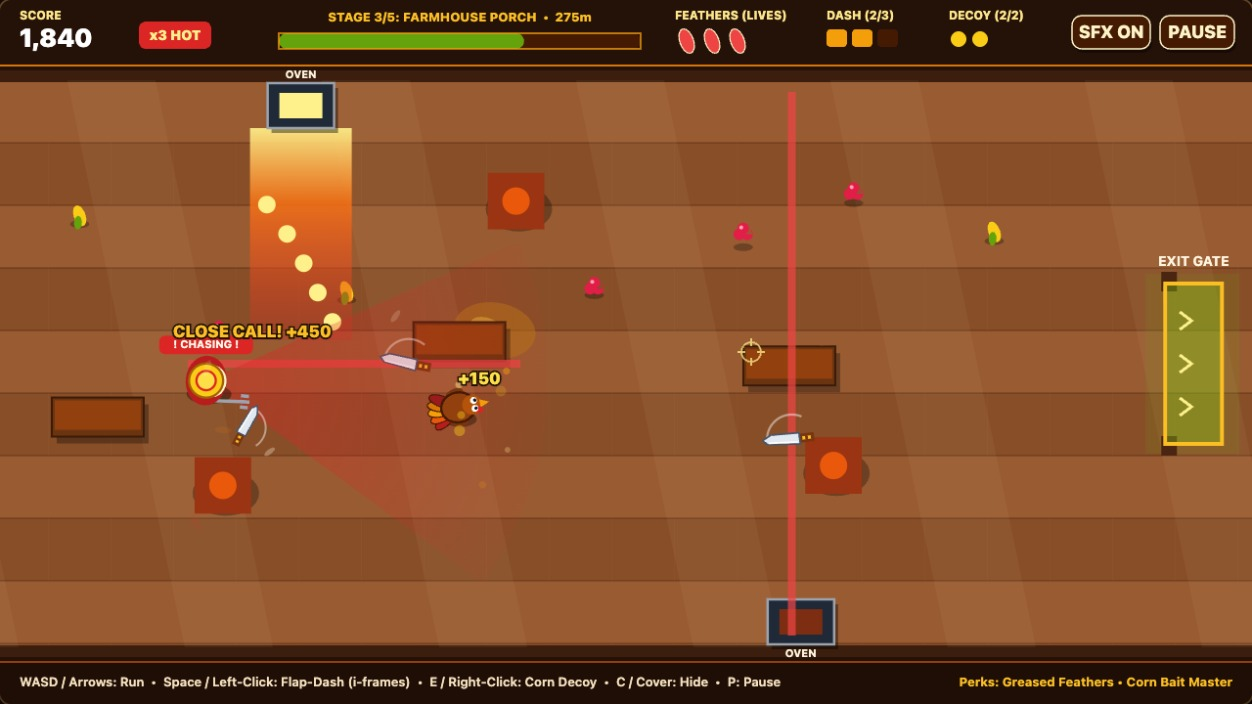
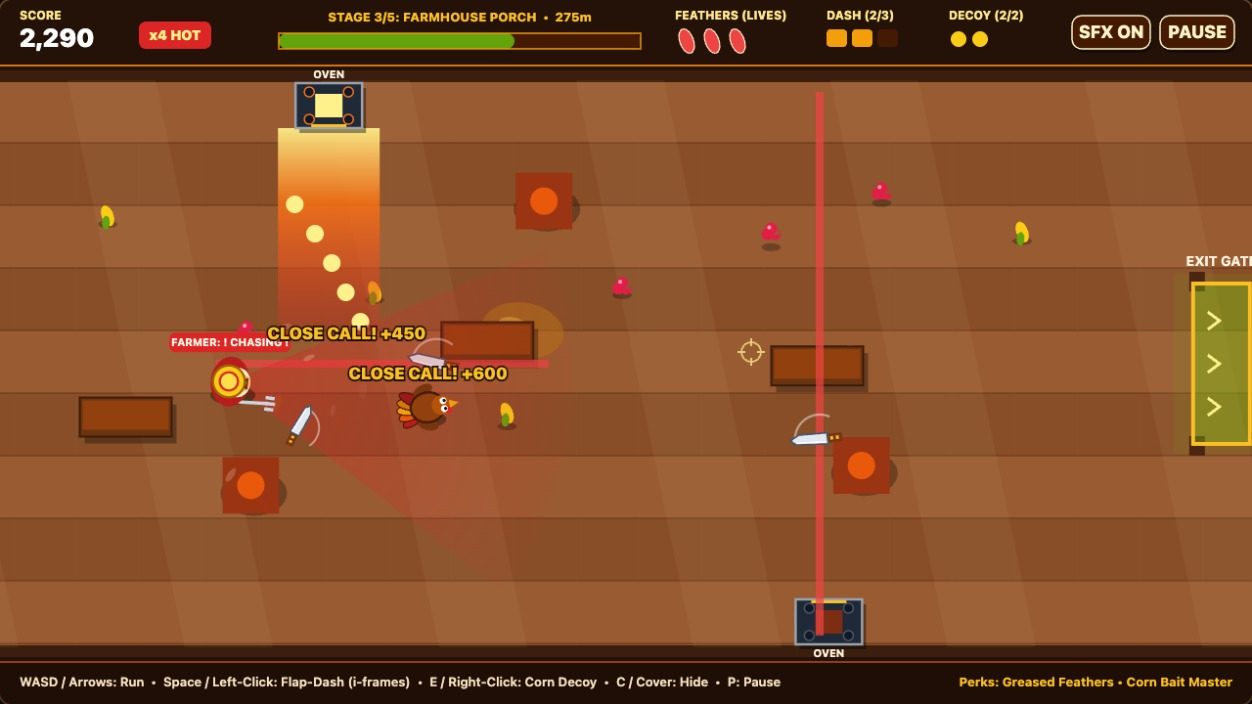
Polish V1.1 character/oven art, music pulse, and cover framing

diff --git a/game/src/renderer.js b/game/src/renderer.js
@@ -381,9 +381,24 @@ export class GameRenderer {
       ctx.lineWidth = 2.5;
       ctx.strokeRect(-hw, -hh, oven.width, oven.height);
 
+      // 4 cast-iron stovetop burners + brass door handle.
+      ctx.fillStyle = '#111827';
+      ctx.strokeStyle = oven.state === 'IDLE' ? '#4B5563' : '#F97316';
+      ctx.lineWidth = 1.5;
+      for (const bx of [-hw + 14, hw - 14]) {
+        for (const by of [-hh + 9, hh - 9]) {
+          ctx.beginPath();
+          ctx.arc(bx, by, 5, 0, Math.PI * 2);
+          ctx.fill();
+          ctx.stroke();
+        }
+      }
+
       // Glowing oven window.
       ctx.fillStyle = oven.state === 'IDLE' ? '#7C2D12' : oven.state === 'PREHEAT' ? '#F97316' : '#FEF08A';
-      ctx.fillRect(-hw + 12, -hh + 10, oven.width - 24, oven.height - 20);
+      ctx.fillRect(-hw + 20, -hh + 11, oven.width - 40, oven.height - 22);
+      ctx.fillStyle = '#FBBF24';
+      ctx.fillRect(-hw + 16, oven.dirY > 0 ? hh - 4 : -hh + 1, oven.width - 32, 3);
 
       // Tag label for instant readability.
       ctx.fillStyle = '#FFF4DF';
@@ -642,36 +657,63 @@ export class GameRenderer {
 
     // Swinging arms & carving fork/pitchfork.
     const swing = Math.sin(farmer.walkPhase) * 3;
-    ctx.strokeStyle = '#9CA3AF';
+    // Stepping boots.
+    const step = Math.sin(farmer.walkPhase) * 5;
+    ctx.fillStyle = '#3B1E08';
+    ctx.beginPath();
+    ctx.ellipse(4 + step, -10, 7, 4.5, 0, 0, Math.PI * 2);
+    ctx.ellipse(4 - step, 10, 7, 4.5, 0, 0, Math.PI * 2);
+    ctx.fill();
+
+    ctx.strokeStyle = '#CBD5E1';
     ctx.lineWidth = 3;
     ctx.beginPath();
     ctx.moveTo(8, 15 + swing);
-    ctx.lineTo(35, 13 + swing);
+    ctx.lineTo(36, 13 + swing);
     ctx.stroke();
     // Fork prongs.
     ctx.beginPath();
-    ctx.moveTo(32, 8 + swing);
-    ctx.lineTo(39, 8 + swing);
-    ctx.moveTo(32, 13 + swing);
-    ctx.lineTo(40, 13 + swing);
-    ctx.moveTo(32, 18 + swing);
-    ctx.lineTo(39, 18 + swing);
+    ctx.moveTo(33, 8 + swing);
+    ctx.lineTo(41, 8 + swing);
+    ctx.moveTo(33, 13 + swing);
+    ctx.lineTo(42, 13 + swing);
+    ctx.moveTo(33, 18 + swing);
+    ctx.lineTo(41, 18 + swing);
     ctx.stroke();
 
-    // Flannel shoulders & apron torso.
+    // Flannel shoulders, denim overalls & white apron.
     ctx.fillStyle = '#B91C1C';
     ctx.beginPath();
-    ctx.ellipse(0, 0, 18, 22, 0, 0, Math.PI * 2);
+    ctx.ellipse(0, 0, 17, 22, 0, 0, Math.PI * 2);
     ctx.fill();
+    ctx.fillStyle = '#1D4ED8';
+    ctx.fillRect(-10, -13, 16, 26);
     ctx.fillStyle = '#FEF3C7';
     ctx.beginPath();
-    ctx.ellipse(6, 0, 12, 14, 0, 0, Math.PI * 2);
+    ctx.ellipse(7, 0, 11, 13, 0, 0, Math.PI * 2);
     ctx.fill();
+
+    // Face & determined brow peeking ahead.
+    ctx.fillStyle = '#FDBA74';
+    ctx.beginPath();
+    ctx.arc(10, 0, 8, 0, Math.PI * 2);
+    ctx.fill();
+    ctx.fillStyle = '#111827';
+    ctx.beginPath();
+    ctx.arc(13, -3, 1.6, 0, Math.PI * 2);
+    ctx.arc(13, 3, 1.6, 0, Math.PI * 2);
+    ctx.fill();
+    ctx.strokeStyle = '#78350F';
+    ctx.lineWidth = 2;
+    ctx.beginPath();
+    ctx.moveTo(15, -5);
+    ctx.lineTo(15, 5);
+    ctx.stroke();
 
     // Straw hat.
     ctx.fillStyle = '#FACC15';
     ctx.beginPath();
-    ctx.arc(0, 0, 15, 0, Math.PI * 2);
+    ctx.arc(-1, 0, 14, 0, Math.PI * 2);
     ctx.fill();
     ctx.strokeStyle = '#A16207';
     ctx.lineWidth = 2;
@@ -679,11 +721,11 @@ export class GameRenderer {
 
     ctx.fillStyle = '#DC2626';
     ctx.beginPath();
-    ctx.arc(0, 0, 9.5, 0, Math.PI * 2);
+    ctx.arc(-1, 0, 9, 0, Math.PI * 2);
     ctx.fill();
     ctx.fillStyle = '#FDE047';
     ctx.beginPath();
-    ctx.arc(0, 0, 7.5, 0, Math.PI * 2);
+    ctx.arc(-1, 0, 7, 0, Math.PI * 2);
     ctx.fill();
 
     ctx.restore();
@@ -694,25 +736,25 @@ export class GameRenderer {
     const badgeColor = isChase ? '#DC2626' : isWarn ? '#EA580C' : '#3F6212';
     const label =
       farmer.calloutTimer > 0 && farmer.calloutText
-        ? farmer.calloutText
+        ? `FARMER: ${farmer.calloutText}`
         : farmer.state === FARMER_STATES.CORNERING
-          ? '!! CORNERING'
+          ? 'FARMER !! CORNER'
           : farmer.state === FARMER_STATES.CHASING
-            ? '! CHASING'
+            ? 'FARMER ! CHASING'
             : farmer.state === FARMER_STATES.SEARCHING
-              ? '? SEARCHING'
+              ? 'FARMER ? SEARCH'
               : farmer.state === FARMER_STATES.SUSPICIOUS
-                ? '? ALERT'
-                : 'PATROL';
+                ? 'FARMER ? ALERT'
+                : 'FARMER PATROL';
 
     ctx.fillStyle = badgeColor;
     ctx.beginPath();
-    ctx.roundRect(-48, -46, 96, 19, 6);
+    ctx.roundRect(-62, -50, 124, 20, 6);
     ctx.fill();
     ctx.fillStyle = '#FFFBEB';
     ctx.font = 'bold 11px system-ui, sans-serif';
     ctx.textAlign = 'center';
-    ctx.fillText(label, 0, -33);
+    ctx.fillText(label, 0, -36);
 
     if (farmer.suspicion > 4 && farmer.suspicion < 100) {
       ctx.fillStyle = 'rgba(0,0,0,0.55)';

diff --git a/game/src/hud.js b/game/src/hud.js
@@ -342,15 +342,18 @@ export class HudRenderer {
     ctx.fillStyle = '#5B6E29';
     ctx.fillRect(x, y + 165, w, h - 165);
 
-    // Mini Oven on right.
+    // Mini Oven on right with stovetop burners & roast glow.
     ctx.fillStyle = '#1F2937';
-    ctx.fillRect(x + 410, y + 120, 84, 70);
+    ctx.fillRect(x + 410, y + 116, 86, 76);
+    ctx.strokeStyle = '#9CA3AF';
+    ctx.lineWidth = 2;
+    ctx.strokeRect(x + 410, y + 116, 86, 76);
     ctx.fillStyle = '#F97316';
-    ctx.fillRect(x + 424, y + 136, 56, 36);
+    ctx.fillRect(x + 426, y + 136, 54, 38);
     ctx.fillStyle = '#FEF08A';
     ctx.font = 'bold 12px system-ui, sans-serif';
     ctx.textAlign = 'center';
-    ctx.fillText('ROAST OVEN', x + 452, y + 110);
+    ctx.fillText('ROAST OVEN', x + 453, y + 104);
 
     // Gleaming carving knife hovering mid-air.
     ctx.save();
@@ -368,7 +371,7 @@ export class HudRenderer {
     ctx.fill();
     ctx.restore();
 
-    // Farmer on left with vision beam.
+    // Farmer on left with overalls, apron, fork & vision beam.
     ctx.fillStyle = 'rgba(220, 38, 38, 0.28)';
     ctx.beginPath();
     ctx.moveTo(x + 115, y + 180);
@@ -377,14 +380,38 @@ export class HudRenderer {
     ctx.closePath();
     ctx.fill();
 
+    ctx.strokeStyle = '#CBD5E1';
+    ctx.lineWidth = 3;
+    ctx.beginPath();
+    ctx.moveTo(x + 120, y + 195);
+    ctx.lineTo(x + 158, y + 193);
+    ctx.stroke();
+
     ctx.fillStyle = '#B91C1C';
     ctx.beginPath();
-    ctx.arc(x + 110, y + 180, 26, 0, Math.PI * 2);
+    ctx.ellipse(x + 108, y + 180, 22, 26, 0, 0, Math.PI * 2);
+    ctx.fill();
+    ctx.fillStyle = '#1D4ED8';
+    ctx.fillRect(x + 96, y + 165, 20, 30);
+    ctx.fillStyle = '#FEF3C7';
+    ctx.beginPath();
+    ctx.ellipse(x + 118, y + 180, 12, 16, 0, 0, Math.PI * 2);
     ctx.fill();
     ctx.fillStyle = '#FACC15';
     ctx.beginPath();
-    ctx.arc(x + 110, y + 180, 18, 0, Math.PI * 2);
+    ctx.arc(x + 108, y + 180, 16, 0, Math.PI * 2);
     ctx.fill();
+    ctx.fillStyle = '#DC2626';
+    ctx.beginPath();
+    ctx.arc(x + 108, y + 180, 10, 0, Math.PI * 2);
+    ctx.fill();
+    ctx.fillStyle = '#FDE047';
+    ctx.beginPath();
+    ctx.arc(x + 108, y + 180, 7.5, 0, Math.PI * 2);
+    ctx.fill();
+    ctx.fillStyle = '#FFF4DF';
+    ctx.font = 'bold 11px system-ui, sans-serif';
+    ctx.fillText('FARMER', x + 108, y + 144);
 
     // Hero Turkey dashing center.
     const tx = x + 285;

diff --git a/game/src/engine.js b/game/src/engine.js
@@ -454,15 +454,18 @@ export class GameEngine {
       this.comboTimer = 3.2;
 
       const focusOven = this.hazards.ovens.find((o) => o.dirY > 0 && o.x > 650) ?? this.hazards.ovens[0];
-      const baseX = focusOven ? focusOven.x - 64 : 780;
+      const baseX = focusOven ? focusOven.x - 38 : 780;
       this.turkey.x = baseX;
       this.turkey.y = (ARENA_TOP + ARENA_BOTTOM) * 0.56;
-      this.turkey.dashTimer = 0.24;
+      this.turkey.dashTimer = 0.12;
       this.turkey.facing = 0.05;
 
-      this.farmer.x = baseX - 190;
-      this.farmer.y = this.turkey.y - 36;
+      this.farmer.x = baseX - 220;
+      this.farmer.y = this.turkey.y - 38;
       this.farmer._clampAndResolve(this.stage);
+      if (this.stage.obstacles.some((o) => Math.abs(this.farmer.x - (o.x + o.w * 0.5)) < o.w * 0.65 && Math.abs(this.farmer.y - (o.y + o.h * 0.5)) < o.h)) {
+        this.farmer.y = ARENA_TOP + 125;
+      }
       this.farmer.facing = Math.atan2(this.turkey.y - this.farmer.y, this.turkey.x - this.farmer.x);
       this.farmer.state = shot === 'kitchen' ? FARMER_STATES.CORNERING : FARMER_STATES.CHASING;
       this.farmer.suspicion = 100;
@@ -497,7 +500,7 @@ export class GameEngine {
       this.cameraX = clamp(this.turkey.x - VIEW_WIDTH * 0.42, 0, this.stage.def.length - VIEW_WIDTH);
       this.emitParticles(this.turkey.x - 26, this.turkey.y, 12, 'feather');
       this.popups = [];
-      this.addPopup('CLOSE CALL! +450', this.turkey.x + 14, this.turkey.y - 44, '#FBBF24', 1.5);
+      this.addPopup('CLOSE CALL! +450', this.turkey.x + 56, this.turkey.y - 42, '#FBBF24', 1.5);
       this.state = GAME_STATES.PLAYING;
       return;
     }

diff --git a/game/src/audio.js b/game/src/audio.js
@@ -5,6 +5,8 @@ export class SoundEngine {
     this.muted = false;
     this.masterGain = null;
     this.stepTimer = 0;
+    this.musicTimer = 0;
+    this.musicStep = 0;
   }
 
   unlock() {
@@ -165,12 +167,23 @@ export class SoundEngine {
   tickFootstep(dt, moving, dangerRatio) {
     if (!moving) {
       this.stepTimer = 0.08;
-      return;
+    } else {
+      this.stepTimer -= dt;
+      if (this.stepTimer <= 0) {
+        this.stepTimer = dangerRatio > 0.6 ? 0.17 : 0.23;
+        this.playTone({ freq: 145 + Math.random() * 35, endFreq: 95, type: 'sine', duration: 0.045, gain: 0.05 });
+      }
     }
-    this.stepTimer -= dt;
-    if (this.stepTimer <= 0) {
-      this.stepTimer = dangerRatio > 0.6 ? 0.17 : 0.23;
-      this.playTone({ freq: 145 + Math.random() * 35, endFreq: 95, type: 'sine', duration: 0.045, gain: 0.05 });
+
+    // Subtle procedural autumn groove that quickens when the farmer is chasing.
+    this.musicTimer -= dt;
+    if (this.musicTimer <= 0) {
+      const tempo = dangerRatio > 0.7 ? 0.22 : 0.34;
+      this.musicTimer = tempo;
+      const scale = dangerRatio > 0.7 ? [196, 233.08, 261.63, 293.66] : [196, 220, 261.63, 329.63];
+      const freq = scale[this.musicStep % scale.length];
+      this.musicStep += 1;
+      this.playTone({ freq, endFreq: freq * 0.98, type: 'triangle', duration: 0.14, gain: 0.032 });
     }
   }
 }
